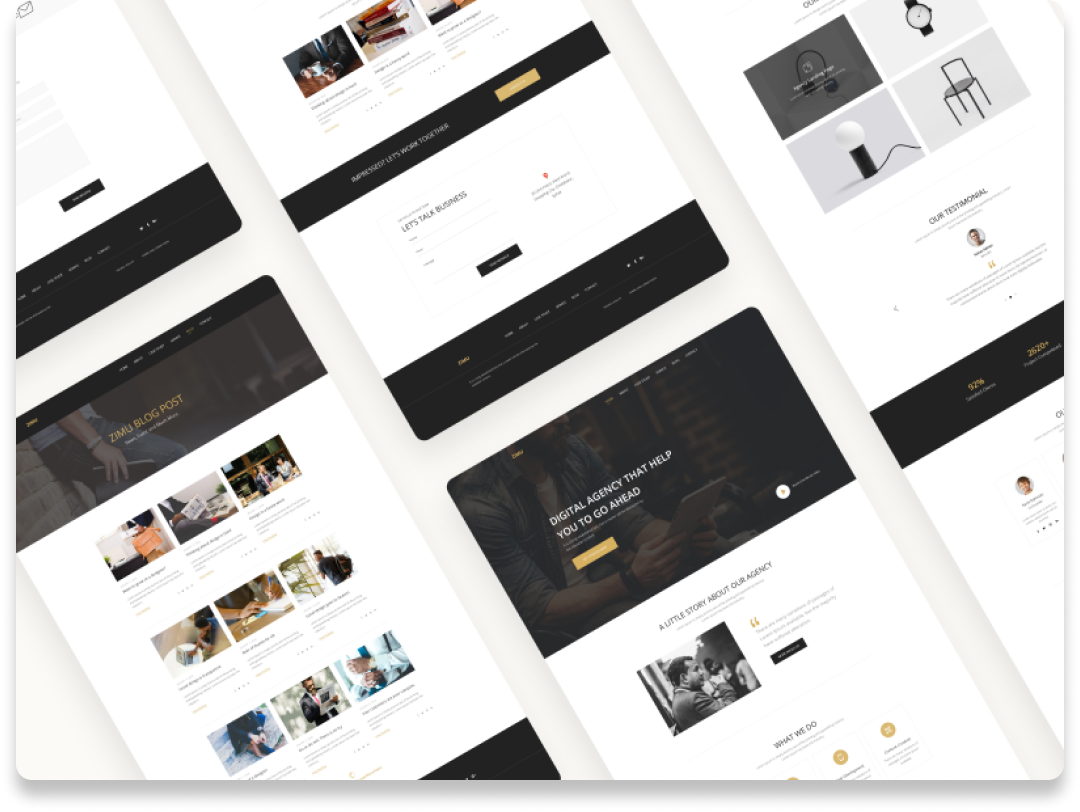
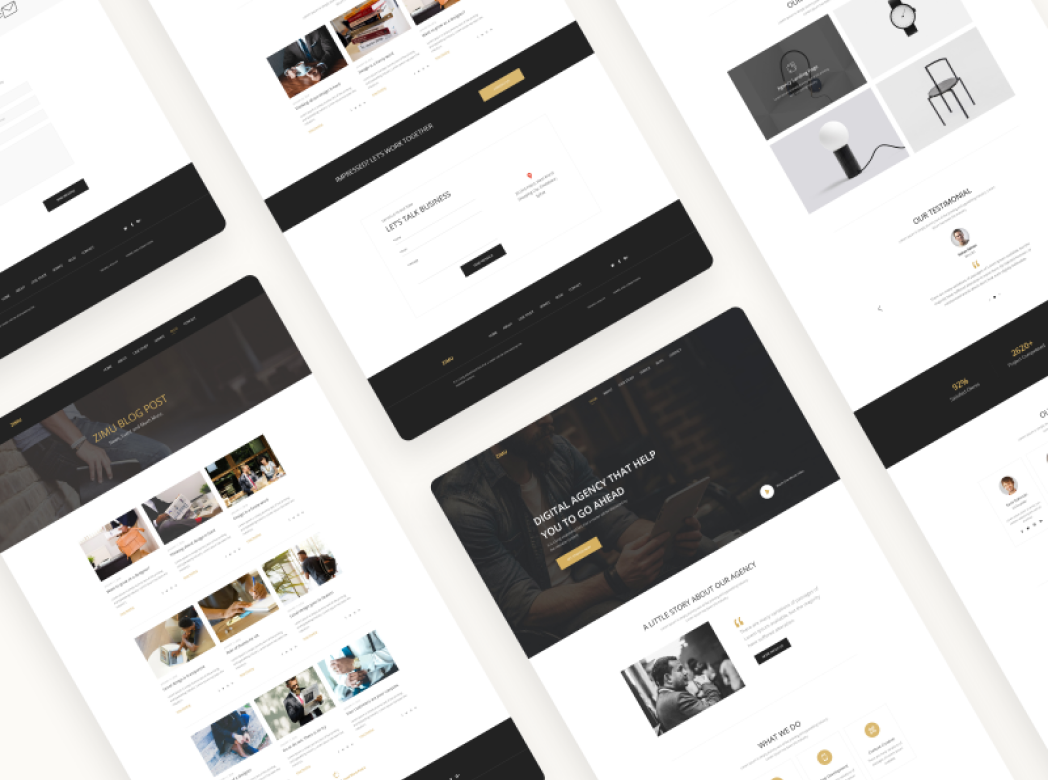
added cards priviewd options

diff --git a/src/Components/Shared/Navbar.jsx b/src/Components/Shared/Navbar.jsx
@@ -5,6 +5,8 @@ import html from '../../assets/Images/html.png'
 import react from '../../assets/Images/react.png'
 import tailwind from '../../assets/Images/tailwind.png'
 import Bootstrap from '../../assets/Images/bootrap.png'
+import { Link } from 'react-router-dom';
+import { AiOutlineShopping } from 'react-icons/ai';
 
 const Navbar = () => {
     return (
@@ -13,17 +15,39 @@ const Navbar = () => {
             <div className='xl:px-[135px] '>
 
                 <div className='pb-[29px] flex justify-between items-center pt-[30px]'>
-                    <img src={logo} className='w-[177px] h-[40px]' alt="" />
+                    <Link>
+                        <img src={logo} className='w-[177px] h-[40px]' alt="" />
+
+
+                    </Link>
 
                     <div className='flex gap-[30px] items-center'>
-                        <h1 className='font-bold text-[16px] Bold'>Sign In</h1>
+                        <Link id='addCard' >
+                            <AiOutlineShopping  onClick={() => window.my_modal_5.showModal()} className='w-[28px] h-[28px]' />
+
+                        </Link>
+
+                        <dialog id="my_modal_5" className="modal modal-top sm:modal-middle">
+                            <form method="dialog" className="modal-box">
+                                <h3 className="font-bold text-lg">Hello!</h3>
+                                <p className="py-4">Press ESC key or click the button below to close</p>
+                                <div className="modal-action">
+                                  
+                                    <button className="btn">Close</button>
+                                </div>
+                            </form>
+                        </dialog>
+
+
+                        
+                        <Link to='/SignIn' className='font-bold text-[16px] Bold'>Sign In</Link>
                         <button className='bg-[#60599E] rounded-[4px] text-white py-[10px] w-[163px] h-[39px] text-[14px] font-bold Bold'>Get Ultimate Access</button>
 
                     </div>
                 </div>
 
                 <div>
-                    <hr className='border-[1px] bg-[#1A0702] opacity-10' />
+                    <hr className='border-[1px] bg-[#E5DFDC] opacity-[]' />
 
                 </div>
 
@@ -45,7 +69,7 @@ const Navbar = () => {
 
 
 
-            <div className="flex lg:ml-16 justify-center mt-[80px] pb-[50px]">
+            <div className="flex lg:ml-24 2xl:ml-28 justify-center mt-[80px] pb-[50px]">
 
 
                 <input
@@ -62,7 +86,7 @@ const Navbar = () => {
 
             {/* Cards */}
 
-            <div className='flex justify-center'>
+            <div className='flex justify-center items-center'>
                 <div className='flex gap-[30px] '>
                     <div className='w-[81px] bg-white px-[26px] pt-[12px] rounded-[10px]'>
                         <img src={html} className='w-[30] h-[30px]' alt="" />
@@ -80,7 +104,7 @@ const Navbar = () => {
                         <img src={Bootstrap} className='w-[38] mx-auto h-[30px]' alt="" />
                         <h1 className='text-[12px] text-center  font-bold Bold mt-[10px] pb-[13px]'>Bootstrap</h1>
                     </div>
-                    
+
 
                 </div>
             </div>

diff --git a/src/Components/Home/SingleCards.jsx b/src/Components/Home/SingleCards.jsx
@@ -1,20 +1,60 @@
 import React from 'react';
 
+import '../Shared/Style.css';
+
 const SingleCards = ({ CardsData }) => {
-    console.log(CardsData);
+
     const { img, title } = CardsData;
     return (
         <div>
             <div className=' px-[4px] pb-[4px] pt-[3px]   bg-white ' >
-                <img src={img} className='' alt="" />
+                <div className=''>
+                    {/* <img src={img} className='' alt="" /> */}
 
-                <div className='bg-[#fcf7f4] px-[15px] py-[15px] mt-[3px]'>
+
+                    <div className="group relative block rounded-[8px] h-[196px] 2xl:h-[300px]  hover:bg-[#60599E] ">
+                        <img
+                            alt="Developer"
+                            src={img}
+                            className="absolute 2xl:h-[300px]  lg:h-[196px] w-full   group-hover:opacity-50"
+                        />
+
+                        <div className="relative p-4 sm:p-6 lg:p-8">
+
+
+                            <div className="">
+                                <div
+                                    className=" transform opacity-0 duration-500 transition-all lg:group-hover:translate-y-[20px] lg:group-hover:translate-x-[10px] 
+
+                                    xl:group-hover:translate-y-[80px] xl:group-hover:translate-x-[40px] group-hover:opacity-100    2xl:group-hover:translate-y-[100px] 2xl:group-hover:translate-x-[60px] "
+                                >
+                                    <a href='' className="text-sm text-center px-[15px]   text-[#60599E] text-[12px] font-bold Bold -mt-24 py-[8px] bg-white">
+                                        Live Preview
+
+                                    </a>
+                                </div>
+                            </div>
+                        </div>
+                    </div>
+
+
+
+
+
+
+
+
+                </div>
+
+
+
+                <div className='bg-[#fcf7f4] px-[15px] py-[15px]  mt-[3px]'>
                     <h1 className='text-[14px] font-semibold SemiBold'>{title}</h1>
 
-                    <div className='pt-5 flex justify-between'>
+                    <div className='pt-5 flex justify-between  2xl:px-[15px]'>
                         <button className='text-[12px] font-bold Bold rounded-[4px] border-[1px] border-[#60599E] py-[8px] px-[15px] hover:bg-[#60599E] hover:text-white'>Details</button>
 
-                        <button className='text-[12px] font-bold Bold rounded-[4px] border-[1px] border-[#60599E] py-[8px] px-[15px] bg-[#60599E] hover:bg-[#3f3a68] text-white'>Live Preview</button>
+                        <button className='text-[12px] font-bold Bold rounded-[4px] border-[1px] border-[#60599E] py-[8px] px-[15px] bg-[#60599E] hover:bg-[#3f3a68] text-white'>Add To Cart</button>
 
                     </div>
 

diff --git a/src/Components/Shared/Footer.jsx b/src/Components/Shared/Footer.jsx
@@ -1,13 +1,14 @@
 import React from 'react';
 import '../Shared/Style.css'
 import logo from '../../assets/Images/logo 1.png'
+import { Link } from 'react-router-dom';
 
 const Footer = () => {
     return (
         <>
             <div className='mt-[150px]'>
 
-                <h1 className='text-center tracking-[3px] text-[14px] XpeedText font-bold Bold'>Xpeed Page Template</h1>
+                <h1 className='text-center tracking-[3px] uppercase opacity-60 text-[14px] XpeedText font-bold Bold'>Xpeed Page Template</h1>
 
                 <h1 className='text-center text-[45px] font-bold Bold mt-[30px]'>Let’s Start Project Together</h1>
 
@@ -22,19 +23,25 @@ const Footer = () => {
             </div>
 
 
-            <div className='mt-[80px] pb-[30px] px-[135px]'>
-                <hr className='border-[1px] bg-[#1A0702] opacity-10' />
+            <div className='mt-[80px] mb-[30px] px-[135px]'>
+                <hr className='border-[1px] bg-[#E5DFDC] ' />
 
             </div>
 
             <div className='px-[135px] pb-[50px] flex justify-between items-center pt-[30px]'>
-                <img src={logo} className='w-[177px] h-[40px]' alt="" />
+                <Link to='/'>  <img src={logo} className='w-[177px] h-[40px]' alt="" /></Link>
+
 
                 <div className='flex gap-[40px] items-center'>
-                    <p className='font-normal text-[16px] Normal'>Team</p>
-                    <p className='font-normal text-[16px] Normal'>Case Studies</p>
-                    <p className='font-normal text-[16px] Normal'>Publications</p>
-                    
+                    <Link to='/team'>  <p className='font-normal text-[16px] Normal'>Team</p>  </Link>
+                    <Link to='/caseStudies'> <p className='font-normal text-[16px] Normal'>Case Studies</p></Link>
+
+                    <Link to='/publications'>
+                        <p className='font-normal text-[16px] Normal'>Publications</p>
+
+
+                    </Link>
+
 
                 </div>
             </div>

diff --git a/src/Components/Home/Cards.jsx b/src/Components/Home/Cards.jsx
@@ -24,7 +24,7 @@ const Cards = () => {
     return (
         <>
 
-            <div className='pt-[84px] px-[135px]'>
+            <div className='pt-[84px] lg:px-[100px] xl:px-[135px]'>
 
                 <div className='grid lg:grid-cols-4 grid-cols-1 gap-[30px]'>
 

diff --git a/src/Components/Shared/Style.css b/src/Components/Shared/Style.css
@@ -21,6 +21,11 @@
 }
 
 
+.CardBody{
+    
+}
+
+
 
 /* Media Queries  */
 
